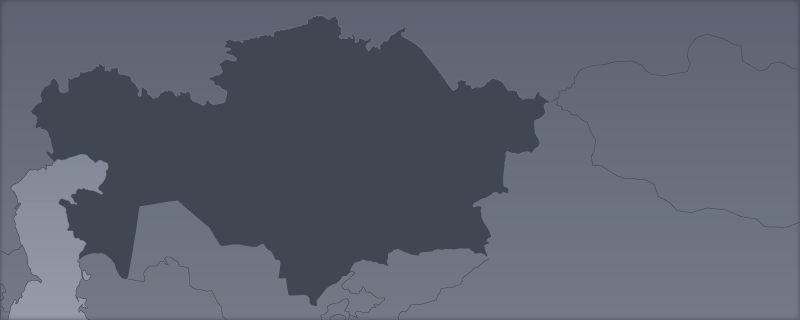
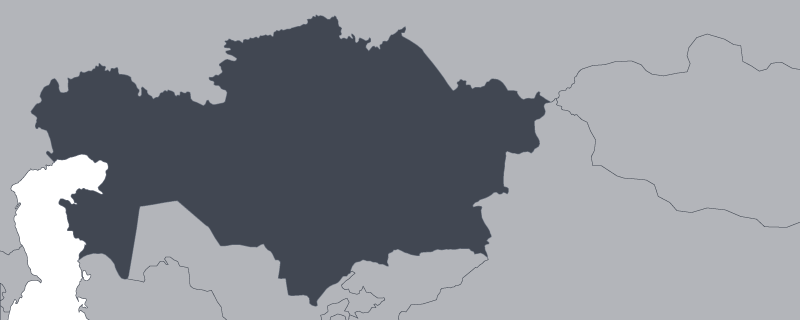
AWAD-223 (Исправлены параметры зума для Казахстана + подключение гуглокарт на максимальном зуме)

diff --git a/static/js/main.js b/static/js/main.js
@@ -11,6 +11,8 @@ var Map = function() {
 
 Map.prototype = {
 	map: {},
+	gmap: null,
+	gmapGeocoder: null,
 	mapEl: null,
 	tpl: {
 		map: {
@@ -154,7 +156,7 @@ Map.prototype = {
 
 	draw: function(container) {
 		var template = $('#canvas-map'),
-			mapEl = $(_.template(template.html())()),
+			mapEl = this.mapEl = $(_.template(template.html())()),
 			mapContent = mapEl.find('.b-map-content');
 
 		mapEl
@@ -169,7 +171,6 @@ Map.prototype = {
 				mapContent.fadeIn();
 				this.setListeners(mapContent);
 			}.bind(this));
-		this.mapEl = mapEl;
 	},
 
 	onReady: function(container) {
@@ -212,6 +213,8 @@ Map.prototype = {
 				var canvas = document.createElement('canvas'),
 					ctx = canvas.getContext('2d'),
 					image = $('<img>').appendTo(map.parent());
+
+				this.mapEl.addClass('b-loading_map');
 	
 				canvas.width = map[0].width;
 				canvas.height = map[0].height;
@@ -232,7 +235,9 @@ Map.prototype = {
 
 		if (!hasCanvases) {
 			this.canvases[this.currentLevel.length - 1] = canvases;
-		} else {
+		}
+
+		if (!list.length || hasCanvases) {
 			AWAD.Observatory.trigger('canvmap.rendered');
 		}
 	},
@@ -282,6 +287,33 @@ Map.prototype = {
 					this.checkZone();
 				}
 			}.bind(this));
+
+		if (!this.canvases[this.currentLevel.length - 1].length) {
+			this.loadGMap();
+		}
+	},
+
+	loadGMap: function() {
+		var zone = this.currentLevelRoot,
+			gmapContainer = $('.b-map-gmap'),
+			gmapGeocoder = this.gmapGeocoder = new google.maps.Geocoder(),
+			gmap;
+
+		this.mapEl.addClass('b-loading_map');
+		gmapGeocoder.geocode({
+			address: zone.name
+		}, function(results, status) {
+			this.mapEl.removeClass('b-loading_map');
+
+			if (status == google.maps.GeocoderStatus.OK) {
+				gmapContainer.show();
+				gmap = this.gmap = new google.maps.Map(gmapContainer[0], {
+					zoom: 4,
+					center: results[0].geometry.location,
+					mapTypeId: google.maps.MapTypeId.ROADMAP
+				});
+			}
+		}.bind(this));
 	},
 
 	zoomOut: function() {

diff --git a/index.html b/index.html
@@ -7,8 +7,9 @@
 		<meta http-equiv="X-UA-Compatible" content="chrome=1">
 		<meta content="text/javascript" http-equiv="Content-Script-Type">
 		<meta content="text/css" http-equiv="Content-Style-Type">
-		<link href="/" rel="home">
+		<meta name="viewport" content="initial-scale=1.0, user-scalable=no" />
 
+		<link href="/" rel="home">
 		<link href="static/css/main.css" type="text/css" rel="stylesheet" />
 
 		<script type="text/javascript" src="static/js/libs/jquery-1.5.2.min.js"></script>
@@ -16,6 +17,8 @@
 		<script type="text/javascript" src="static/js/libs/underscore-min.js"></script>
 		<script type="text/javascript" src="static/js/config.js"></script>
 		<script type="text/javascript" src="static/js/system.js"></script>
+
+		<script type="text/javascript" src="http://maps.googleapis.com/maps/api/js?sensor=false"></script>
 
 		<script type="text/javascript" src="static/js/main.js"></script>
 		<script type="text/javascript">
@@ -77,17 +80,17 @@
 							fileName: 'asia-1-kazakhstan.png',
 							animations: {
 								active: {
-									top: -210,
-									left: -642,
-									width: 1856,
-									height: 743,
+									top: -50,
+									left: -482,
+									width: 2482,
+									height: 992,
 									opacity: 0
 								},
 								zone: {
-									top: 91,
-									left: 278,
-									width: 344,
-									height: 137
+									top: 19,
+									left: 168,
+									width: 224,
+									height: 90
 								}
 							}
 						}),
@@ -138,6 +141,8 @@
 	<script type="text/template" id="canvas-map">
 		<div class="b-map">
 			<div class="b-map-content"></div>
+			<div class="b-map-gmap"></div>
+			<i class="b-map-preloader"></i>
 		</div>
 	</script>
 	<!-- Templates -->

diff --git a/static/css/main.css b/static/css/main.css
@@ -5,8 +5,19 @@
 	position: relative;
 	overflow: hidden;
 }
-.b-map.b-loading_map {
+.b-map-preloader {
+	top: 50%;
+	left: 50%;
+	width: 32px;
+	height: 32px;
 	background: url(../img/b-map_loader.gif) 50% no-repeat;
+	margin: -16px 0 0 -16px;
+	position: absolute;
+	z-index: 1;
+	display: none;
+}
+.b-map.b-loading_map .b-map-preloader {
+	display: block;
 }
 
 .b-map-content {
@@ -28,8 +39,15 @@
 	display: none !important;
 }
 
+.b-map-gmap,
 .b-map-content_map {
 	top: 0;
 	left: 0;
 	position: absolute;
+}
+.b-map-gmap {
+	width: 100%;
+	height: 100%;
+	display: none;
+	background: transparent !important;
 }
